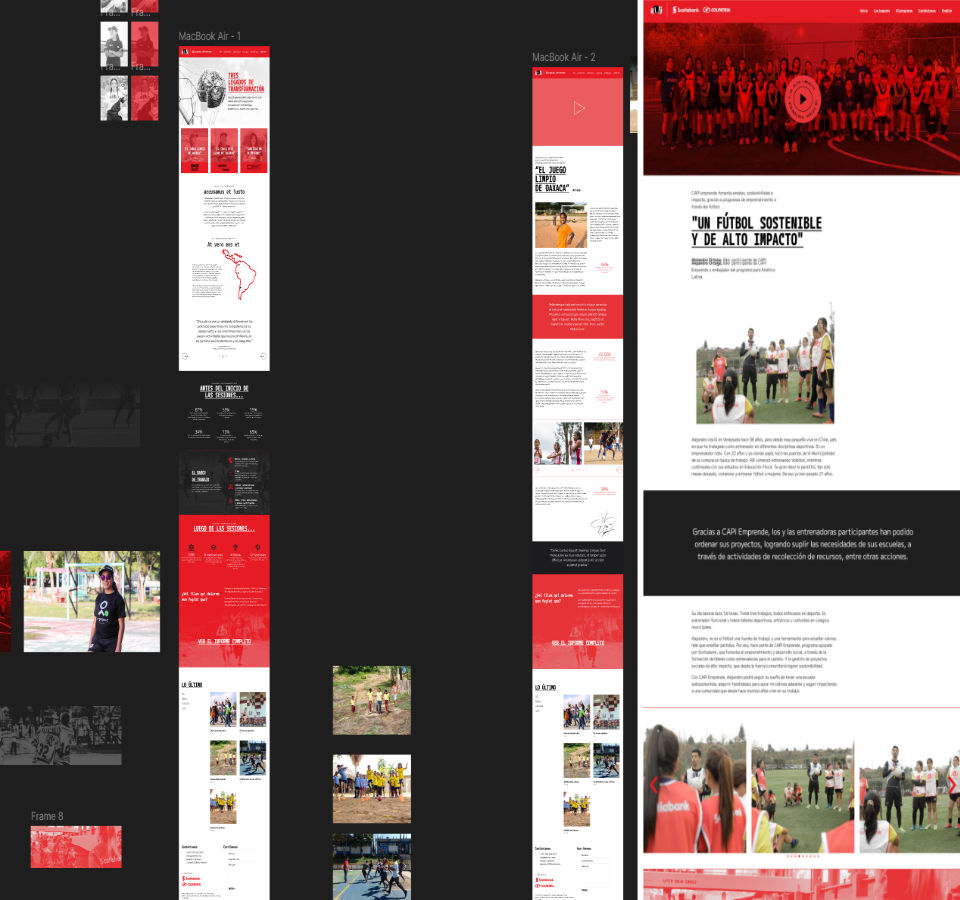
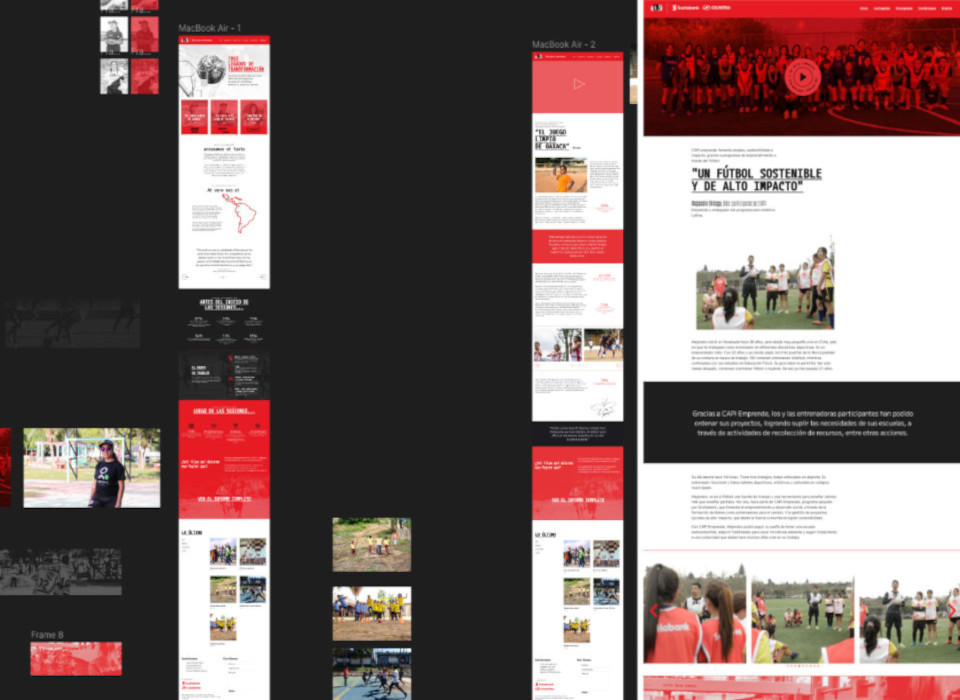
incorpora las imagens y traducciones

diff --git a/src/css/style.css b/src/css/style.css
@@ -399,12 +399,6 @@ h3 {
     margin: var(--line-height) 0;
 }
 
-img {
-    height: calc(var(--line-height) * 5);
-    aspect-ratio: 3 / 2;
-    transform: translateY(var(--baseline-offset));
-}
-
 hr {
     margin: calc(var(--line-height) * 2) 0 calc(var(--line-height) * 3 - 1px);
     padding: 0;
@@ -428,6 +422,7 @@ ul {
     & img {
         display: block;
         height: calc(var(--line-height) * 10);
+        mix-blend-mode: lighten !important;
         aspect-ratio: 1;
         grid-column: 1 / -1;
         transform: translateY(var(--baseline-offset));
@@ -485,7 +480,7 @@ dialog {
 
     img {
         width: 100%;
-        height: auto;
+        height: 100%;
         outline: 1px solid var(--background);
         margin: 0 0 var(--line-height);
     }
@@ -525,7 +520,7 @@ dialog {
     }
 
     figcaption {
-        text-align: right;
+        text-align: left;
         margin: calc(var(--line-height) * -1) 0 calc(var(--line-height) * 2);
         font-size: calc(var(--base-size) * 0.8);
     }
@@ -654,8 +649,6 @@ dialog {
         color: var(--background);
 
         img {
-            width: unset;
-            height: unset;
             margin: var(--line-height) 15% var(--line-height) 0;
             transform: translateX(calc(var(--line-height) * -1));
             outline: 1px solid var(--background);
@@ -811,13 +804,6 @@ dialog {
         background: var(--text);
         color: var(--background);
 
-        img {
-            width: 100%;
-            height: auto;
-            outline: 1px solid var(--background);
-            margin: 0 0 var(--line-height);
-        }
-
         a {
             color: var(--background);
             display: block;
@@ -835,10 +821,8 @@ dialog {
         }
 
         figcaption {
-            text-align: right;
             margin: calc(var(--line-height) * -1) 5%
                 calc(var(--line-height) * 1);
-            font-size: calc(var(--base-size) * 0.8);
         }
     }
 }

diff --git a/src/ts/main.ts b/src/ts/main.ts
@@ -19,6 +19,7 @@ const loadPage = async () => {
         const render = new Renderer();
         const { html, menu: menuItems } = render.renderMarkdown(parsed);
 
+        console;
         if (!html || !menuItems) {
             throw new Error('Unable to load the data');
         }
@@ -60,7 +61,8 @@ const loadPage = async () => {
         dialogs.forEach((dialog) => {
             dialog.addEventListener('pointerdown', clickOutsideDialog);
         });
-    } catch {
+    } catch (err) {
+        console.log(err);
         throw new Error('Could not load the page');
     }
 };

diff --git a/src/ts/parser.ts b/src/ts/parser.ts
@@ -326,10 +326,8 @@ export class Parser {
         }
 
         const [, imgAlt, imgSrc, figCaption] = imgArray;
-        if (!imgAlt.trim() || !imgSrc.trim()) {
-            throw new Error(
-                `Invalid image or alternate text in: "${sectionData}"`,
-            );
+        if (!imgSrc.trim()) {
+            throw new Error(`Invalid image path: "${sectionData}"`);
         }
 
         return {

diff --git a/src/assets/data/portfolio/es/ss.md b/src/assets/data/portfolio/es/ss.md
@@ -22,20 +22,25 @@ Este micrositio, mi curriculum, es una implementación de un parser de Markdown 
 
 ### ConTrato Digno
 
+![](/assets/img/ss/contratoDigno.jpg){Wireframes y pantalla de inicio del sitio de ConTrato Digno}
 Para [ConTrato Digno](https://contratodigno.org/)B (2023), un micrositio enfocado en la formalización de la contratación de trabajadoras del hogar en México y Guatemala, fui responsable de la estructura del contenido, la redacción y la programación. Este proyecto centralizó la campaña, y fue la primera vez que integré el enfoque de accesibilidad en mi trabajo.
 
 ### Trabajadoras del Hogar
 
+![](/assets/img/ss/trabajadoras.jpg){Wireframes y página sobre los convenios de Trabajadoras del Hogar}
 En [Trabajadoras del Hogar](https://www.oas.org/es/cim/trabajo-domestico/)B (2022), desarrollé un micrositio bilingüe, diseñado para ser ligero y optimizado para el menor consumo de datos posible. A partir de un informe sobre los derechos de las trabajadoras, estructuré la información de manera clara, asegurando que los usuarios pudieran acceder fácilmente a los contenidos, incluso en dispositivos más antiguos.
 
 ### AMZK
 
+![](/assets/img/ss/amzk.jpg){Portafolio con los trabajos realizados por el estudio}
 En [AMZK - Amazink Studio](https://amazink.co/)B (2021), además de crear más de 200 publicaciones para redes sociales, lideré el rediseño del sitio web del estudio. Migramos desde WordPress a un sitio sin CMS. Este proceso de reestructuración corrigió errores de UX en el sitio anterior y mejoró la experiencia general del usuario.
 
 ### MAMA y PICSI
 
-El proyecto [MAMA](https://www.masartemasaccion.org/lumbung-documenta/lumbung-nuqui/)B (2021) y [Picsi](http://picsi.mmejia.com/)B (2020) son dos proyectos creados en momentos muy distintos, pero ambos compartieron el principio de adaptabilidad. En MAMA, diseñé una plataforma flexible para cargar contenido en tiempo real durante un taller en Nuquí-Chocó, mientras que en Picsi, desarrollé rápidamente un servicio de fotografía de producto para apoyar a los negocios locales durante la pandemia, con un diseño eficiente y adaptable a las necesidades urgentes de los comercios.
+![](/assets/img/ss/nuqui.jpg){Página de inicio y del diario de Lumbung Nuqui}
+El proyecto MAMA(2021) y [Picsi](http://picsi.mmejia.com/)B (2020) son dos proyectos creados en momentos muy distintos, pero ambos compartieron el principio de adaptabilidad. En MAMA, diseñé una plataforma flexible para cargar contenido en tiempo real durante un taller en Nuquí-Chocó, mientras que en Picsi, desarrollé rápidamente un servicio de fotografía de producto para apoyar a los negocios locales durante la pandemia, con un diseño eficiente y adaptable a las necesidades urgentes de los comercios.
 
 ### mmejia.com
 
+![](/assets/img/ss/mmejia.jpg){Página con el portafolio de fotografía comercial}
 Uno de los primeros proyectos fue [mmejia.com](https://mmejia.com)B (2018), mi propio portafolio, que reprogramé completamente para diferenciarlo de otros sitios de fotografía. El objetivo fue mejorar el rendimiento, ofrecer una experiencia de usuario más fluida y facilitar el mantenimiento. En ese momento, decidí trabajar únicamente con código propio, llevándome al límite de lo que conocía de programación. La estructura la diseñé para replicarla e implementarla en cada una de las líneas de trabajo audiovisual que realizo.

diff --git a/src/assets/data/portfolio/es/lab.md b/src/assets/data/portfolio/es/lab.md
@@ -20,6 +20,7 @@ Me produce curiosidad cómo se intentan ocultar los errores y la necesidad de ev
 
 ### La Mete-o
 
+![](/assets/img/lab/lameteo.jpg){Textura generada con el clima de varios lugares del mundo}
 fue un ejercicio para profundizar en el manejo de código asíncrono y la interacción con múltiples APIs. Aprendí a encadenar respuestas de APIs, utilizando la información de una para alimentar a la siguiente, como en el caso de obtener mi ubicación, para luego consultar el clima y luego generar un prompt que arrojara una imagen relacionada con el lugar, el clima y la hora. Creé una interfaz sensible a los datos recibidos, ajustando colores y saturación según el pronóstico. Este proyecto me permitió mejorar mis habilidades en la programación asíncrona y en la gestión de dependencias de datos.
 
 [Repositorio de La Mete-o](https://github.com/dothedada/laMeteo)B
@@ -27,6 +28,7 @@ fue un ejercicio para profundizar en el manejo de código asíncrono y la intera
 
 ### La Cumbancha
 
+![](/assets/img/lab/lacumbancha.jpg){El inicio de una partida y la derrota en La Cumbancha}
 fue mi versión de Battleship, donde me sumergí en el desarrollo guiado por pruebas (TDD). Aprendí a trabajar con unit testing y Jest, mientras configuraba un flujo de trabajo con Vite. En cuanto a la interfaz, experimenté con un diseño minimalista controlado por teclado, sin usar el mouse. Esto me enseñó sobre accesibilidad y cómo ofrecer una experiencia de usuario diferente, todo mientras perfeccionaba mis habilidades en pruebas y empaquetado de proyectos.
 
 [Repositorio de La Cumbancha](https://github.com/dothedada/batttleship-top)B
@@ -34,6 +36,7 @@ fue mi versión de Battleship, donde me sumergí en el desarrollo guiado por pru
 
 ### La Calle Está Dura
 
+![](/assets/img/lab/lacalleestadura.jpg){Proceso de creación de una hoja de vida}
 consistió en crear una herramienta para generar hojas de vida adaptadas a las ofertas laborales. Durante este ejercicio, trabajé con React y me enfoqué en la funcionalidad de exportar un CV a formato PDF, optimizado para que el usuario iterara en su hoja de vida permitiéndole resaltar sus habilidades y experiencia de manera efectiva y acorde a la oferta. Aprendí a integrar datos dinámicos y a construir una aplicación práctica que no solo mejora la experiencia del usuario, sino que también aporta valor real en la búsqueda de empleo.
 
 [Repositorio de La Calle Está Dura](https://github.com/dothedada/laCalleEstaDura)B
@@ -41,6 +44,7 @@ consistió en crear una herramienta para generar hojas de vida adaptadas a las o
 
 ### Etch a Sketch
 
+![](/assets/img/lab/sketch.jpg){Interfase de dibujo}
 fue un proyecto donde creé un tablero de dibujo por píxeles con una interfaz sencilla. Implementé la capacidad de cambiar la densidad de la retícula y separar las acciones de clic y movimiento para mejorar la experiencia con trackpad. Este ejercicio me permitió aprender más sobre el control del DOM y la manipulación de eventos, mientras experimentaba con mezclas de colores a través de ecuaciones matemáticas. Fue una excelente oportunidad para explorar la interacción gráfica en el navegador de manera intuitiva.
 
 [Repositorio de Etch a Sketch](https://github.com/dothedada/etch-a-sketch)B

diff --git a/src/assets/data/portfolio/en/ss.md b/src/assets/data/portfolio/en/ss.md
@@ -23,20 +23,25 @@ This microsite, my resume, is an implementation of a Markdown parser I'm develop
 
 ### ConTrato Digno
 
+![](/assets/img/ss/contratoDigno.jpg){Wireframes and home screen of ConTrato Digno site}
 For [ConTrato Digno](https://contratodigno.org/)B (2023), a microsite focused on formalizing the hiring of domestic workers in Mexico and Guatemala, I was responsible for content structure, copywriting and programming. This project centralized the campaign, and was the first time I integrated the accessibility approach into my work.
 
 ### Domestic Workers
 
+![](/assets/img/ss/trabajadoras.jpg){Wireframes and page on Domestic Workers' Agreements}
 In [Domestic Workers](https://www.oas.org/en/cim/domestic-work/)B (2022), I developed a bilingual microsite, designed to be lightweight and optimized for the lowest possible data consumption. Based on a report on workers' rights, I structured the information in a clear way, ensuring that users could easily access the content, even on older devices.
 
 ### AMZK
 
+![](/assets/img/ss/amzk.jpg){Portfolio with the work done by the studio}
 At [AMZK - Amazink Studio](https://amazink.co/)B (2021), in addition to creating over 200 social media posts, I led the redesign of the studio's website. We migrated from WordPress to a non-CMS site. This restructuring process corrected UX errors on the previous site and improved the overall user experience.
 
 ### MAMA & PICSI
 
-The [MAMA](https://www.masartemasaccion.org/lumbung-documenta/lumbung-nuqui/)B (2021) and [Picsi](http://picsi.mmejia.com/)B (2020) project are two projects created at very different times, but both shared the principle of adaptability. In MAMA, I designed a flexible platform to upload content in real time during a workshop in Nuquí-Chocó, while in Picsi, I quickly developed a product photography service to support local businesses during the pandemic, with an efficient and adaptable design to the urgent needs of businesses.
+![](/assets/img/ss/nuqui.jpg){Lumbung Nuqui homepage and diary}
+The MAMA (2021) and [Picsi](http://picsi.mmejia.com/)B (2020) project are two projects created at very different times, but both shared the principle of adaptability. In MAMA, I designed a flexible platform to upload content in real time during a workshop in Nuquí-Chocó, while in Picsi, I quickly developed a product photography service to support local businesses during the pandemic, with an efficient and adaptable design to the urgent needs of businesses.
 
 ### mmejia.com
 
+![](/assets/img/ss/mmejia.jpg){Page with commercial photography portfolio}
 One of the first projects was [mmejia.com](https://mmejia.com)B (2018), my own portfolio, which I completely reprogrammed to differentiate it from other photography sites. The goal was to improve performance, provide a smoother user experience, and make maintenance easier. At the time, I decided to work solely with my own code, pushing myself to the limits of what I knew about programming. I designed the structure to replicate and implement it in each of the audiovisual lines of work I do.

diff --git a/src/assets/data/portfolio/en/lab.md b/src/assets/data/portfolio/en/lab.md
@@ -20,6 +20,7 @@ I am curious about how people try to hide errors and the need to avoid them, whe
 
 ### The Mete-o
 
+![](/assets/img/lab/lameteo.jpg){Texture generated with the climate of various places in the world.}
 was an exercise to deepen my asynchronous code handling and interaction with multiple APIs. I learned how to chain API responses together, using information from one to feed the next, as in the case of getting my location, then querying the weather and then generating a prompt that would throw up an image related to the location, weather and time. I created an interface sensitive to the data received, adjusting colors and saturation according to the forecast. This project allowed me to improve my skills in asynchronous programming and data dependency management.
 
 [La Mete-o repository](https://github.com/dothedada/laMeteo)B
@@ -27,6 +28,7 @@ was an exercise to deepen my asynchronous code handling and interaction with mul
 
 ### La Cumbancha
 
+![](/assets/img/lab/lacumbancha.jpg){The beginning of a game and the defeat at La Cumbancha}
 was my version of Battleship, where I immersed myself in test-driven development (TDD). I learned to work with unit testing and Jest, while setting up a workflow with Vite. As for the interface, I experimented with a minimalist keyboard-driven design, without using the mouse. This taught me about accessibility and how to deliver a different user experience, all while honing my skills in testing and packaging projects.
 
 [La Cumbancha repository](https://github.com/dothedada/batttleship-top)B
@@ -34,6 +36,7 @@ was my version of Battleship, where I immersed myself in test-driven development
 
 ### La Calle Está Dura
 
+![](/assets/img/lab/lacalleestadura.jpg){Process of creating a resume}
 consisted of creating a tool to generate resumes tailored to job offers. During this exercise, I worked with React and focused on the functionality of exporting a CV to PDF format, optimized for the user to iterate on their resume allowing them to highlight their skills and experience effectively and according to the offer. I learned how to integrate dynamic data and build a practical application that not only improves the user experience, but also brings real value to the job search.
 
 [La Calle Está Dura repository](https://github.com/dothedada/laCalleEstaDura)B
@@ -41,6 +44,7 @@ consisted of creating a tool to generate resumes tailored to job offers. During 
 
 ### Etch a Sketch
 
+![](/assets/img/lab/sketch.jpg){Drawing interface}
 was a project where I created a pixel drawing board with a simple interface. I implemented the ability to change the grid density and separate click and move actions to improve the trackpad experience. This exercise allowed me to learn more about DOM control and event manipulation, while experimenting with color blending through mathematical equations. It was an excellent opportunity to explore graphical interaction in the browser in an intuitive way.
 
 [Etch a Sketch repository](https://github.com/dothedada/etch-a-sketch)B

diff --git a/src/assets/data/portfolio/es/cms.md b/src/assets/data/portfolio/es/cms.md
@@ -12,18 +12,21 @@ stack:
 preview: /assets/img/portadas/cms.gif
 ---
 
-## CMS
+## Algunos trabajos con CMS
 
-[Fundación Arte-Caona](https://fundacioncaona.org)B
 [Tres legados de Transformación](https://3ltlatam.com)B
 [Atelier Lapaetau (Alemania)](https://atelierlapaetau.com)B
 [90+](https://90mas.lat/)B
 [Re-Genera (España)](https://re-genera.org)B
 
+![](/assets/img/cms/lapaetau.jpg){Home del atelier lapaetau}
 Este conjunto de proyectos involucra el diseño y desarrollo de sitios web altamente personalizados para organizaciones y artistas. Trabajé desde el planteamiento de la información y su presentación, pasando por la selección y consecución de las plantillas, hasta realizar los ajustes para que respondieran a las necesidades específicas de cada cliente.
 
+![](/assets/img/cms/3lt.jpg){Boceto y finalizacion del sitio 3 legados de transformación}
 Los diseños iniciales se realizaron en Figma, creando prototipos y bocetos visuales que permitieron evaluar la estructura de la información y adaptarla al proyecto. Además de guiar el proceso de desarrollo, los artes desarrollados aseguraron que cada sitio no solo cumpliera con su propósito funcional, sino también con una estética única y coherente con la identidad de cada organización.
 
+![](/assets/img/cms/90mas.jpg){Sitio y boceto para 90más}
 El proceso incluyó una exhaustiva personalización de las plantillas, no solo a nivel visual, sino también funcional, para alinearlas con los objetivos de cada proyecto. Los sitios cuentan con funcionalidades multilenguaje y en algunos casos geotargeting, para ofrecer una experiencia relevante a los visitantes.
 
+![](/assets/img/cms/regenera.jpg){Planeación y desarrollo de re-genera.org}
 También implementé pasarelas de pago seguras y fáciles de usar, permitiendo a la gestión de donaciones y pagos en línea sin complicaciones. Cada integración fue pensada cuidadosamente para ofrecer una experiencia de usuario sin fricciones y adaptada a las normativas locales.

diff --git a/src/assets/data/portfolio/es/filemakerrrr.md b/src/assets/data/portfolio/es/filemakerrrr.md
@@ -14,12 +14,16 @@ repository: https://github.com/dothedada/filemakerrrr
 
 ## Filemakerrrr
 
+![](/assets/img/f4r/header.jpg){Pagina de demostracion de Filemakerrrr}
+
 Es una biblioteca de JavaScript que diseñe para facilitar la compresión y descompresión de cadenas de texto y archivos directamente desde el navegador. Tuve como enfoque la eficiencia, utiliza la codificación Huffman para lograr una compresión efectiva sin bloquear el tiempo de ejecución. La interfaz es sencilla y optimizada para un uso rápido.
 
 Una de sus características es la capacidad para realizar operaciones asíncronas, lo que asegura que el rendimiento de la página no se vea afectado durante el proceso de compresión o descompresión. Además, ofrece soporte para el Unicode BMP (Plano Multilingüe Básico), lo que le permite trabajar con una amplia variedad de caracteres e idiomas.
 
+![](/assets/img/f4r/zip.jpg){Datos obtenidos al comprimir el Coran}
 El proceso de compresión no es siempre necesario, y para evitar un alto consumo de recursos, Filemakerrrr evalúa la cadena antes de intentar comprimirla. El sistema predice las tasas de compresión y solo lleva a cabo la operación si los beneficios son claros, garantizando un uso eficiente de los recursos.
 
 El diseño del proyecto es completamente tipado, lo que proporciona una mayor seguridad y facilidad al integrarlo en otros proyectos. Además, no tiene dependencias externas, lo que lo convierte en una solución ligera y fácil de implementar desde NPM.
 
+![](/assets/img/f4r/unzip.jpg){Datos obtenidos al descomprimir el Corán}
 Filemakerrrr hace parte de un proyecto más grande en el que trabajo para facilitar la publicación de libros e informes y lectura de textos extensos en pantalla. El proyecto está vivo y actualmente estoy terminando en un tokenizador de textos, el cual testeé y produjo este sitio :).

diff --git a/src/assets/data/portfolio/en/cms.md b/src/assets/data/portfolio/en/cms.md
@@ -14,16 +14,19 @@ preview: /assets/img/portadas/cms.gif
 
 ## Some works with CMS
 
-[Fundación Arte-Caona](https://fundacioncaona.org)B
 [Tres legados de Transformación](https://3ltlatam.com)B
 [Atelier Lapaetau (Alemania)](https://atelierlapaetau.com)B
 [90+](https://90mas.lat/)B
 [Re-Genera (España)](https://re-genera.org)B
 
+![](/assets/img/cms/lapaetau.jpg){Atelier lapaetau's Home}
 This set of projects involves the design and development of highly customized websites for organizations and artists. I was involved from the approach of the information and its presentation, through the selection and procurement of templates, to making adjustments to meet the specific needs of each client.
 
+![](/assets/img/cms/3lt.jpg){sketch and finalization of the site 3 legacies of transformation}
 The initial designs were made in Figma, prototyping and creating visual sketches that allowed us to evaluate the structure of the information and shape it to the project. In addition to guiding the development process, the artwork developed ensured that each site not only fulfilled its functional purpose, but also had a unique aesthetic consistent with the identity of each organization.
 
+![](/assets/img/cms/90mas.jpg){Site and sketch for 90más}
 The process included extensive customization of the templates, not only visually, but also functionally, to align with the objectives of each project. The sites have multi-language functionalities and in some cases geotargeting, to offer a relevant experience to visitors.
 
+![](/assets/img/cms/regenera.jpg){Planning and development of re-genera.org}
 I also implemented secure and easy-to-use payment gateways, allowing for seamless online donation and payment management. Each integration was carefully thought out to offer a frictionless user experience adapted to local regulations.

diff --git a/src/assets/data/portfolio/en/filemakerrrr.md b/src/assets/data/portfolio/en/filemakerrrr.md
@@ -14,12 +14,15 @@ repository: https://github.com/dothedada/filemakerrrr
 
 ## Filemakerrrr
 
+![](/assets/img/f4r/header.jpg){Filemakerrrr Demo Page}
 It is a JavaScript library that I designed to facilitate the zipping and unzipping of text strings and files directly from the browser. Focusing on efficiency, it uses Huffman encoding to achieve effective compression without blocking the runtime. The interface is simple and optimized for fast use.
 
 One of its features is the ability to perform asynchronous operations, which ensures that page performance is not affected during the processes of zipping or unzipping. In addition, it offers support for Unicode BMP (Basic Multilingual Plane), allowing it to work with a wide variety of characters and languages.
 
+![](/assets/img/f4r/zip.jpg){Metrics obtained by zipping the Qur'an}
 The zipping process is not always required, and to avoid high resource consumption, Filemakerrrr evaluates the string before attempting to compress it. The system predicts compression rates and only performs the operation if the benefits are clear, ensuring an efficient use of resources.
 
 The project design is fully typed, which provides greater security and ease of integration with other projects. In addition, it has no external dependencies, which makes it a light and easy to implement solution from NPM.
 
+![](/assets/img/f4r/unzip.jpg){Metrics obtained by unzipping the Qur'an}
 Filemakerrrr is part of a larger project I'm working on to make it easier to publish books and reports and read long texts on screen. The project is alive and I'm currently finishing on a text tokenizer, which I tested by building and producing this site :).
